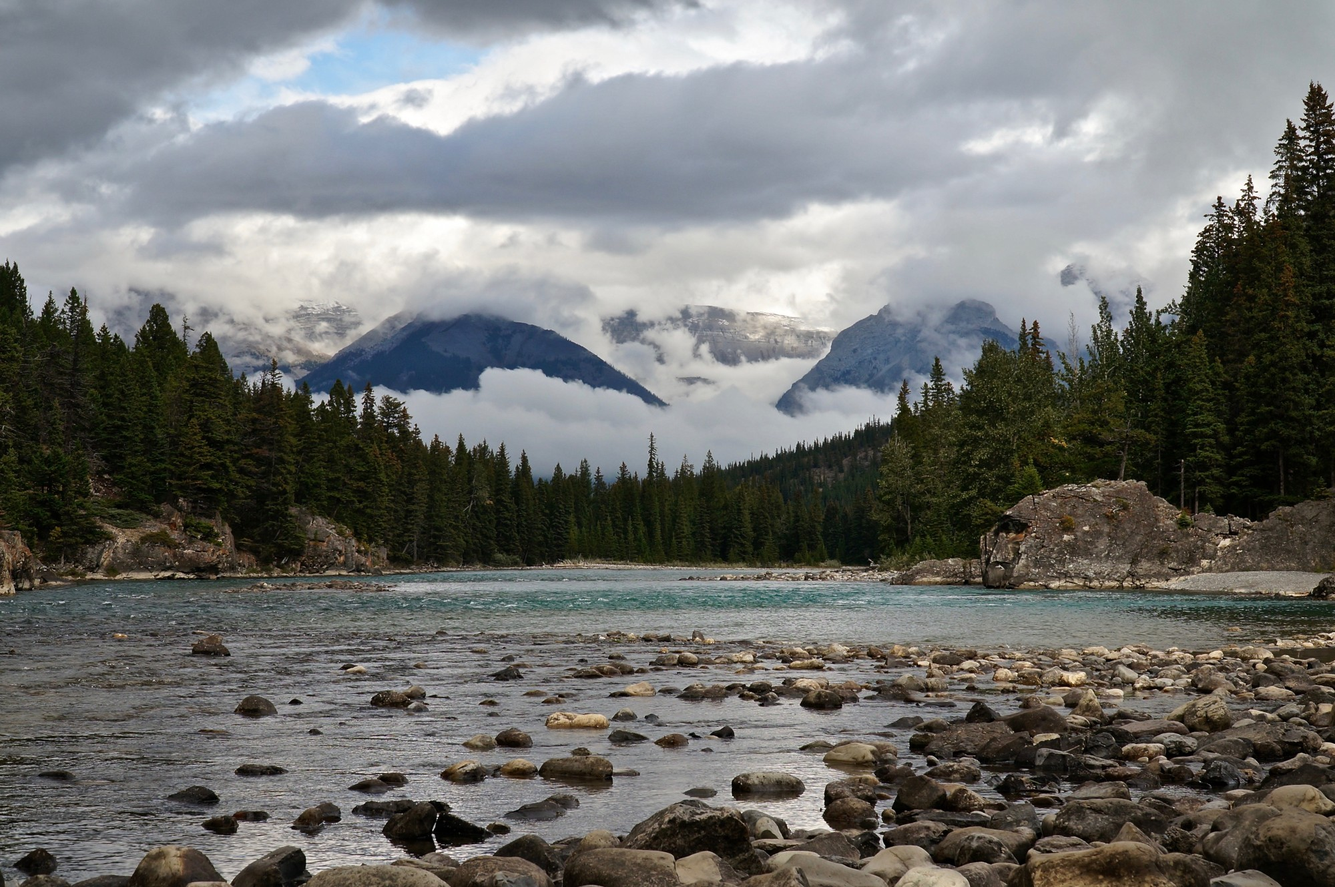
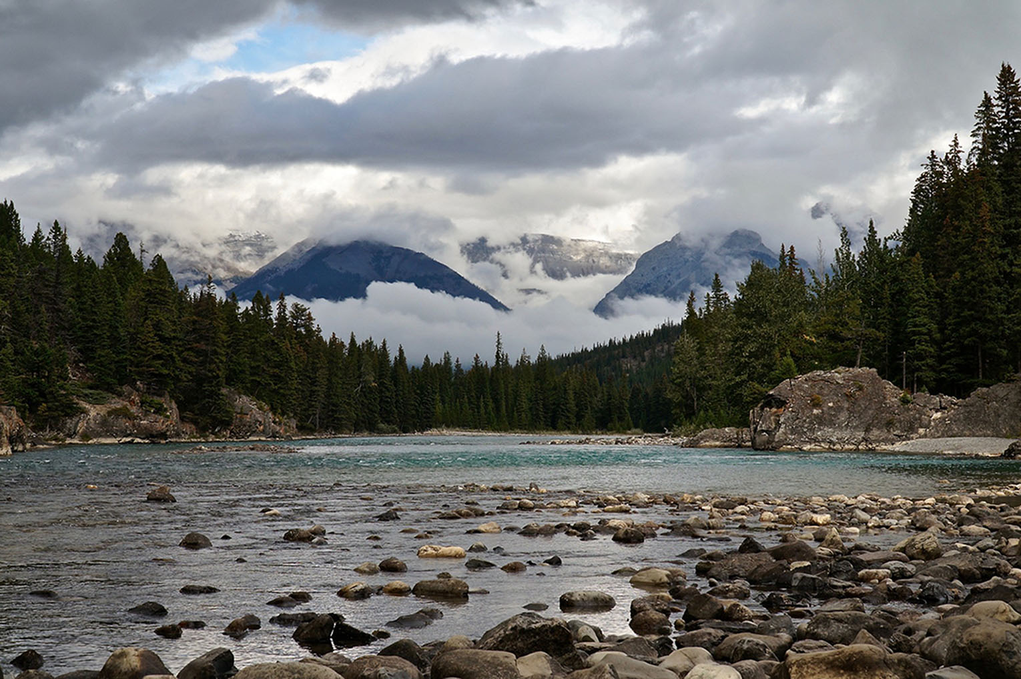
Redimmension de l'image paysage.jpg au format de l'écran

diff --git a/public/connexion.php b/public/connexion.php
@@ -42,13 +42,13 @@ require_once '../views/layout/header.php';
 
         <br>
         <main>
-            <form>
+            <form method="POST">
                 <div class="form-group">
-                    <label for="exampleInputEmail1">Email</label>
-                    <input type="email" class="form-control" id="mail" name="mail" placeholder="Adresse mail...">
+                    <label for="mail">Email</label>
+                    <input type="email" class="form-control" id="mail" name="mail" placeholder="Adresse mail..." value="<?php echo $mail; ?>">
                 </div>
                 <div class="form-group">
-                    <label for="exampleInputPassword1">Mot de passe</label>
+                    <label for="mdp">Mot de passe</label>
                     <input type="password" class="form-control" id="mdp" name="mdp" placeholder="Mot de passe...">
                 </div>
                 <button type="submit" class="btn btn-primary">Se connecter</button>

diff --git a/public/inscription.php b/public/inscription.php
@@ -8,7 +8,7 @@ require_once '../views/layout/header.php';
     <br>
     <br>
 <main>
-    <form method="post">
+    <form method="POST">
         <div class="form-group">
             <label for="nom">Nom</label>
             <input type="text" class="form-control" id="nom" name="nom" aria-describedby="lastnameHelp" placeholder="Entrez votre nom...">
